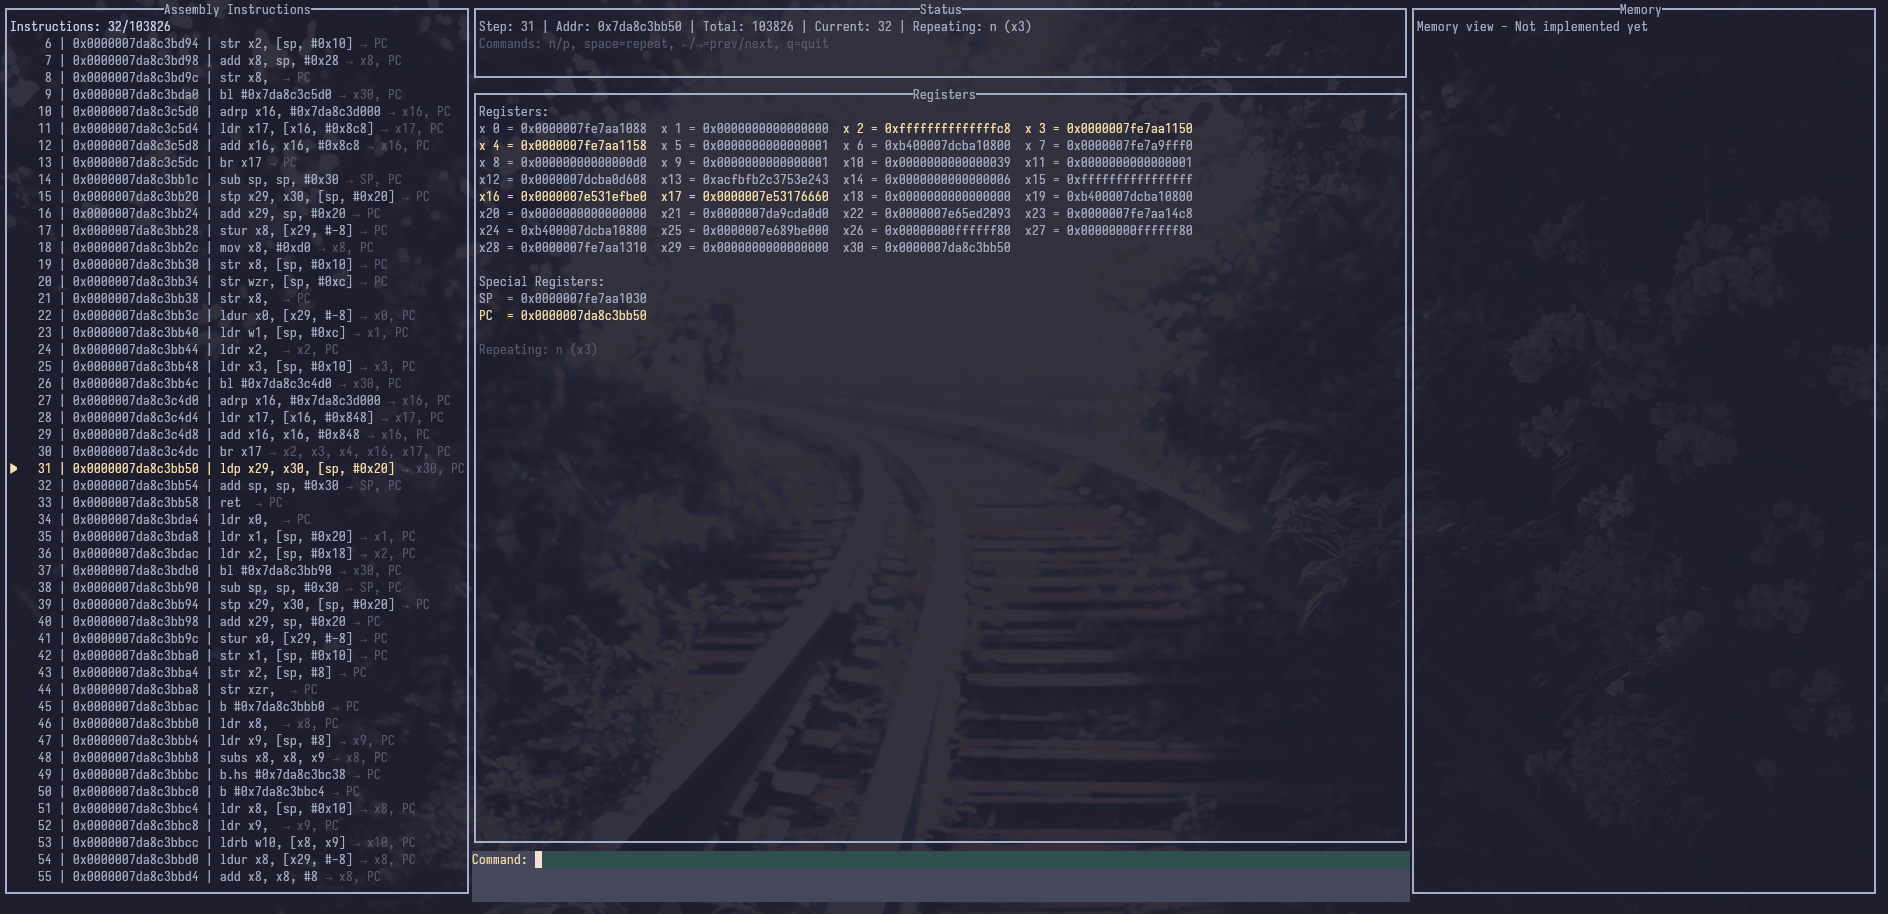
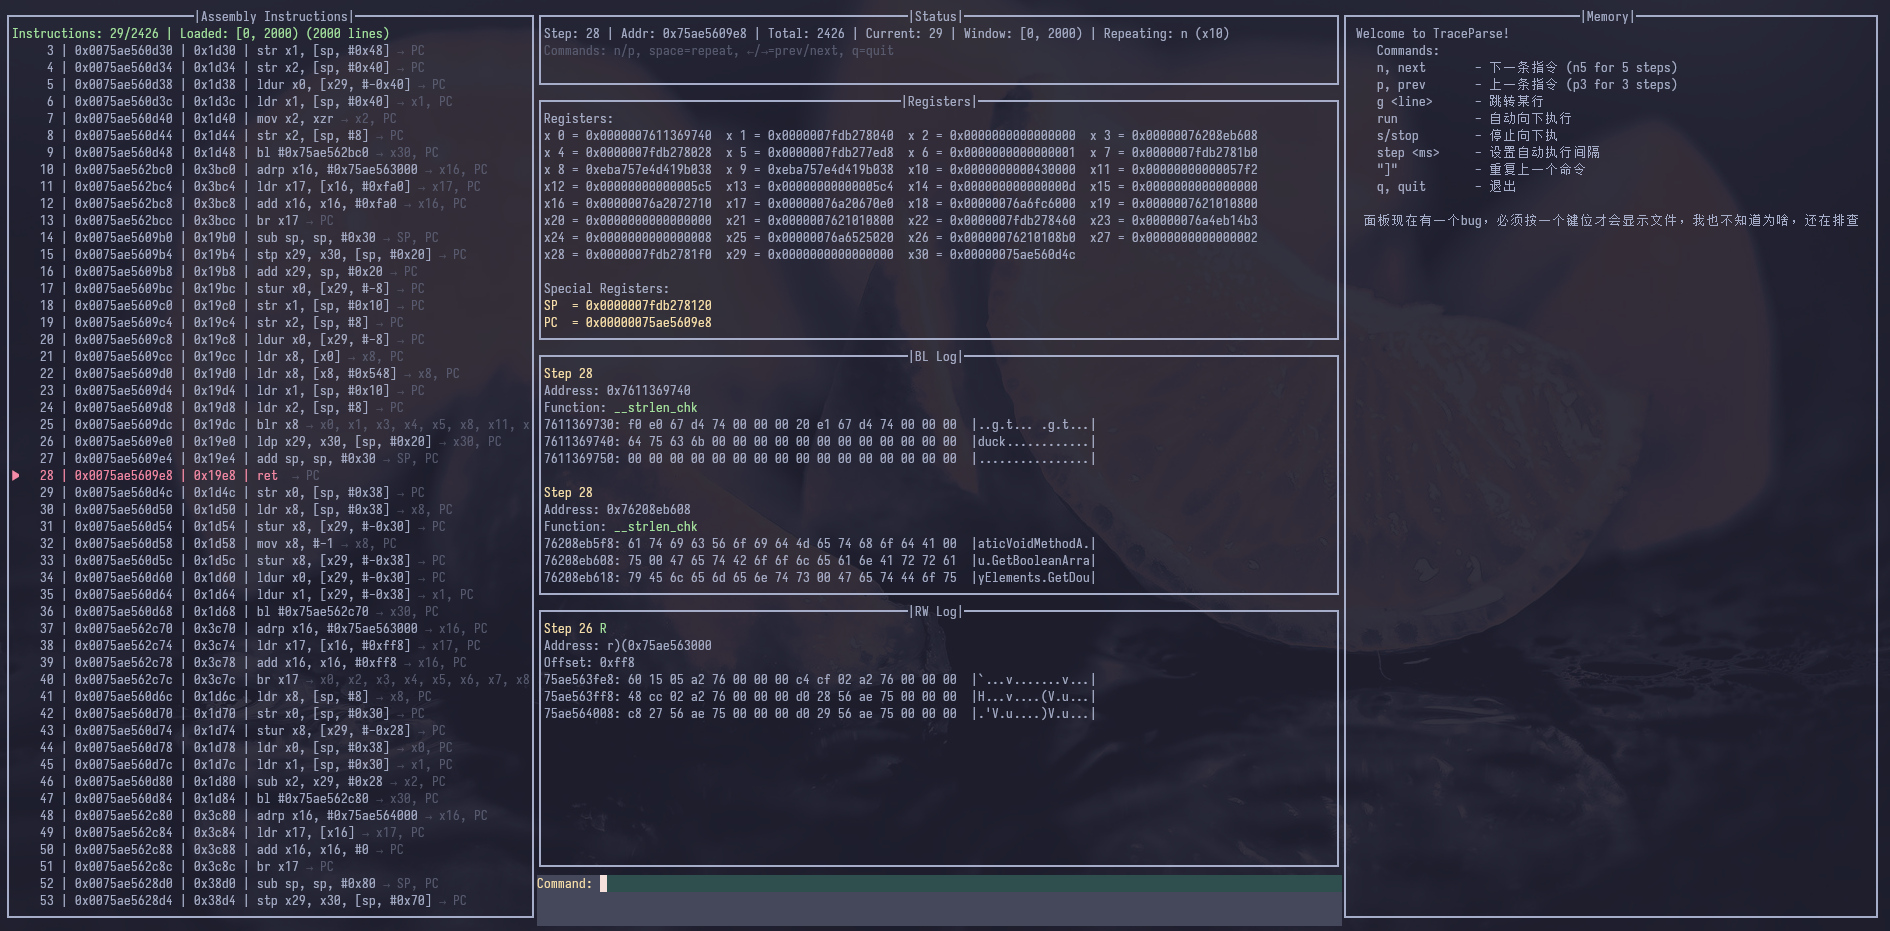
修复面板打开第一时间右边会有一排x的bug && 删除了一些不必要的示例

Changed region(s): [[0.0, 0.0, 1.0, 1.0]]

diff --git a/cmd/main.go b/cmd/main.go
@@ -2,7 +2,6 @@ package main
 
 import (
 	"flag"
-	"fmt"
 	"github.com/djskncxm/TraceParse/pkg/core"
 	"github.com/djskncxm/TraceParse/pkg/tui"
 	"github.com/gdamore/tcell/v2"
@@ -77,9 +76,7 @@ func main() {
 				if cmd != nil {
 					tui.UpdateDisplay(state, cmd)
 				} else {
-					// 否则执行next
-					// cmd = user.ParseCommand("n")
-					// tui.UpdateDisplay(state, cmd)
+					// 否则执行 return
 					return nil
 				}
 				return nil
@@ -111,9 +108,7 @@ func main() {
 		}
 
 		// 初始状态信息
-		app.QueueUpdateDraw(func() {
-			statusView.SetText("Loading...")
-		})
+		// app.QueueUpdateDraw(func() { statusView.SetText("Loading...") })
 
 		if filename != "" {
 			err := tui.LoadInstructionsFromFile(filename, state)
@@ -123,76 +118,30 @@ func main() {
 					statusView.SetText("Error loading file: " + err.Error() +
 						"\nUsing example instructions...")
 				})
-
-				// 添加一些示例指令
-				exampleInstructions := []string{
-					"0001|0x400000|0x0|\"add x0, x1, x2\"|0x0|0x1|0x2|0x0|0x0|0x0|0x0|0x0|0x0|0x0|0x0|0x0|0x0|0x0|0x0|0x0|0x0|0x0|0x0|0x0|0x0|0x0|0x0|0x0|0x0|0x0|0x0|0x0|0x0|0x0|0x0|0x0|0x400000|0x400004",
-					"0002|0x400004|0x4|\"sub x3, x4, x5\"|0x0|0x1|0x2|0x0|0x4|0x5|0x0|0x0|0x0|0x0|0x0|0x0|0x0|0x0|0x0|0x0|0x0|0x0|0x0|0x0|0x0|0x0|0x0|0x0|0x0|0x0|0x0|0x0|0x0|0x0|0x0|0x0|0x400004|0x400008",
-					"0003|0x400008|0x8|\"ldr x6, [x7, #16]\"|0x0|0x1|0x2|0x0|0x4|0x5|0x0|0x0|0x0|0x0|0x0|0x0|0x0|0x0|0x0|0x0|0x0|0x0|0x0|0x0|0x0|0x0|0x0|0x0|0x0|0x0|0x0|0x0|0x0|0x0|0x0|0x0|0x400008|0x40000c",
-					"0004|0x40000c|0xc|\"add x1, x2, x3\"|0x0|0x3|0x2|0x3|0x4|0x5|0x0|0x0|0x0|0x0|0x0|0x0|0x0|0x0|0x0|0x0|0x0|0x0|0x0|0x0|0x0|0x0|0x0|0x0|0x0|0x0|0x0|0x0|0x0|0x0|0x0|0x0|0x40000c|0x400010",
-					"0005|0x400010|0x10|\"mov x8, x9\"|0x0|0x3|0x2|0x3|0x4|0x5|0x0|0x0|0x0|0x0|0x0|0x0|0x0|0x0|0x0|0x0|0x0|0x0|0x0|0x0|0x0|0x0|0x0|0x0|0x0|0x0|0x0|0x0|0x0|0x0|0x0|0x0|0x400010|0x400014",
-				}
-
-				for _, line := range exampleInstructions {
-					if traceLine, err := core.ParseLine(line); err == nil {
-						tm.AddInstruction(traceLine)
-					}
-				}
-
-				app.QueueUpdateDraw(func() {
-					tui.UpdateDisplay(state, nil)
-				})
 			}
-		} else {
-			// 如果没有指定文件，使用示例
-			app.QueueUpdateDraw(func() {
-				statusView.SetText("No file specified. Using example instructions...")
-			})
-
-			// 添加一些示例指令
-			exampleInstructions := []string{
-				"0001|0x400000|0x0|\"add x0, x1, x2\"|0x0|0x1|0x2|0x0|0x0|0x0|0x0|0x0|0x0|0x0|0x0|0x0|0x0|0x0|0x0|0x0|0x0|0x0|0x0|0x0|0x0|0x0|0x0|0x0|0x0|0x0|0x0|0x0|0x0|0x0|0x0|0x0|0x400000|0x400004",
-				"0002|0x400004|0x4|\"sub x3, x4, x5\"|0x0|0x1|0x2|0x0|0x4|0x5|0x0|0x0|0x0|0x0|0x0|0x0|0x0|0x0|0x0|0x0|0x0|0x0|0x0|0x0|0x0|0x0|0x0|0x0|0x0|0x0|0x0|0x0|0x0|0x0|0x0|0x0|0x400004|0x400008",
-				"0003|0x400008|0x8|\"ldr x6, [x7, #16]\"|0x0|0x1|0x2|0x0|0x4|0x5|0x0|0x0|0x0|0x0|0x0|0x0|0x0|0x0|0x0|0x0|0x0|0x0|0x0|0x0|0x0|0x0|0x0|0x0|0x0|0x0|0x0|0x0|0x0|0x0|0x0|0x0|0x400008|0x40000c",
-				"0004|0x40000c|0xc|\"add x1, x2, x3\"|0x0|0x3|0x2|0x3|0x4|0x5|0x0|0x0|0x0|0x0|0x0|0x0|0x0|0x0|0x0|0x0|0x0|0x0|0x0|0x0|0x0|0x0|0x0|0x0|0x0|0x0|0x0|0x0|0x0|0x0|0x0|0x0|0x40000c|0x400010",
-				"0005|0x400010|0x10|\"mov x8, x9\"|0x0|0x3|0x2|0x3|0x4|0x5|0x0|0x0|0x0|0x0|0x0|0x0|0x0|0x0|0x0|0x0|0x0|0x0|0x0|0x0|0x0|0x0|0x0|0x0|0x0|0x0|0x0|0x0|0x0|0x0|0x0|0x0|0x400010|0x400014",
-			}
-
-			for _, line := range exampleInstructions {
-				if traceLine, err := core.ParseLine(line); err == nil {
-					tm.AddInstruction(traceLine)
-				}
-			}
-
-			app.QueueUpdateDraw(func() {
-				tui.UpdateDisplay(state, nil)
-			})
 		}
 	}()
 
 	// 设置初始帮助信息
-	helpText := `Welcome to TraceParse!
-  
-  Commands:
-    n, next       - Next instruction (n5 for 5 steps)
-    p, prev       - Previous instruction (p3 for 3 steps)
-    g <line>      - Go to specific line
-    r, reg        - Show registers
-    run           - Auto step through instructions
-    stop          - Stop auto stepping
-    step <ms>     - Set step delay in milliseconds
-    space         - Repeat last command or step forward
-    ←/→           - Previous/Next instruction
-    q, quit       - Quit
-  
-  Tip: Press Enter without typing to repeat last command!`
+	helpText := ` Welcome to TraceParse!
+	Commands: 
+	n, next       - 下一条指令 (n5 for 5 steps) 
+	p, prev       - 上一条指令 (p3 for 3 steps) 
+	g <line>      - 跳转某行 
+	run           - 自动向下执行 
+	s/stop        - 停止向下执 
+	step <ms>     - 设置自动执行间隔 
+	"]"           - 重复上一个命令 
+	q, quit       - 退出
+	
+  面板现在有一个bug，必须按一个键位才会显示文件，我也不知道为啥，还在排查
+	`
 
-	statusView.SetText(helpText)
+	memoryView.SetText(helpText)
 
 	// 运行应用
 	if err := app.SetRoot(root, true).
 		SetFocus(inputField).
 		Run(); err != nil {
-		fmt.Printf("Error running application: %v\n", err)
 	}
 }

diff --git a/pkg/core/log_types.go b/pkg/core/log_types.go
@@ -97,6 +97,7 @@ func ParseRWLine(line string) (*RWLogEntry, error) {
 	stepStr := strings.TrimSpace(parts[0])
 	step, err := strconv.Atoi(stepStr)
 	if err != nil {
+		// bug
 		return nil, fmt.Errorf("invalid step number: %v", err)
 	}
 
@@ -165,7 +166,8 @@ func (lm *LogManager) LoadBLLog(filename string) error {
 			// 解析新条目
 			entry, err := ParseBLLine(line)
 			if err != nil {
-				fmt.Printf("Error parsing BL log line: %v\n", err)
+				// 跳转也同样不一定每行都有跳转，不应该解析不到到就报错，继续下一行即可
+				// fmt.Printf("Error parsing BL log line: %v\n", err)
 				continue
 			}
 
@@ -217,7 +219,8 @@ func (lm *LogManager) LoadRWLog(filename string) error {
 			// 解析新条目
 			entry, err := ParseRWLine(line)
 			if err != nil {
-				fmt.Printf("Error parsing RW log line: %v\n", err)
+				// 也不是每行都有对应的内存读写，暂时注释，日后寻找更合适的解决方法
+				// fmt.Printf("Error parsing RW log line: %v\n", err)
 				continue
 			}
 

diff --git a/pkg/core/user.go b/pkg/core/user.go
@@ -130,7 +130,7 @@ func (u *User) ParseCommand(cmd string) *Command {
 	case "run":
 		command.Type = CmdRun
 		u.AutoStep = true
-	case "stop":
+	case "s", "stop":
 		command.Type = CmdStop
 		u.AutoStep = false
 	case "step":

diff --git a/README.md b/README.md
@@ -86,10 +86,10 @@
 
 ## 计划中（但不保证一定做）
 
-- 内存视图（只展示“被访问的区域”）
-- 跳转指令的可视化提示
+- 内存视图（只展示“被访问的区域”）现在应该算是可以看了
+- 跳转指令的可视化提示 这个也做出来了
 - trace 过滤 / 折叠
-- 更接近 GDB dashboard 的布局
+- 更接近 GDB dashboard 的布局 还缺一点点内容
 
 ---
 
